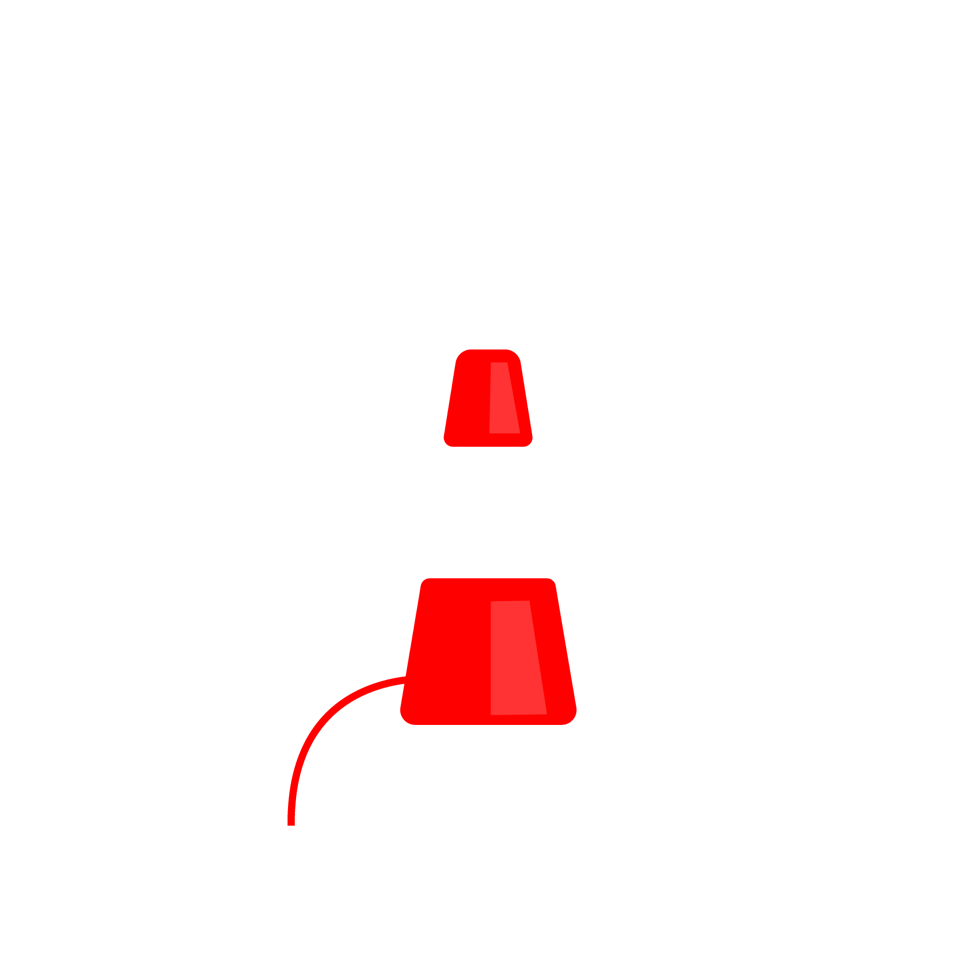
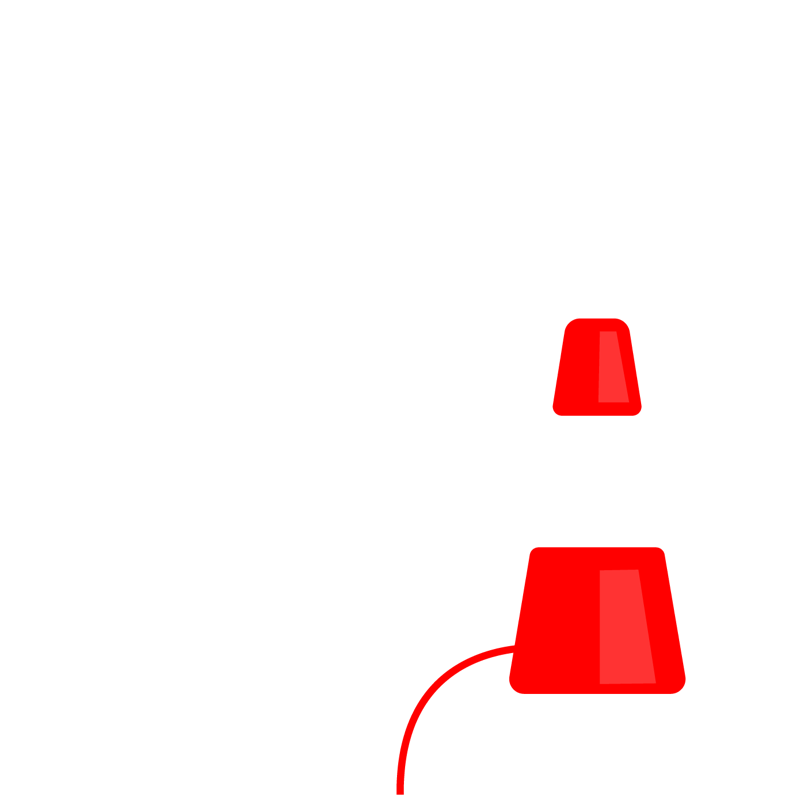
Fix

diff --git a/src/lib/Logo.svelte b/src/lib/Logo.svelte
@@ -26,21 +26,6 @@
 <a class='logo' href='/'>
 	<svg xmlns='http://www.w3.org/2000/svg' xmlns:xlink='http://www.w3.org/1999/xlink' viewBox='0 0 500 500'>
 		<defs>
-			<!-- <clipPath id='mask-orange'>
-				<path d='M-143.71,547.11l-17.1-10.65a62.66,62.66,0,0,1-20.05-86.31L229.56-193.11a62.65,62.65,0,0,1,86.31-20L333-202.5A62.63,62.63,0,0,1,353-116.22v0L-57.4,527.06a62.64,62.64,0,0,1-86.3,20.05Z' />
-			</clipPath>
-			<clipPath id='mask-lavender'>
-				<path d='M-36.93,616.52-54,605.86a62.64,62.64,0,0,1-20-86.3h0L336.34-123.7a62.63,62.63,0,0,1,86.3-20h0L439.74-133a62.64,62.64,0,0,1,20.05,86.26L49.37,596.47A62.66,62.66,0,0,1-36.93,616.52Z' />	
-			</clipPath>
-			<clipPath id='mask-blue'>
-				<path d='M11.15,654l-17.1-10.65a62.66,62.66,0,0,1-20-86.31L384.42-86.21a62.65,62.65,0,0,1,86.3-20l17.11,10.57a62.64,62.64,0,0,1,20.05,86.3L97.46,634A62.67,62.67,0,0,1,11.15,654Z' />
-			</clipPath>
-			<clipPath id='mask-purple'>
-				<path d='M58.56,725.11l-17.1-10.66a62.64,62.64,0,0,1-20-86.3h0L431.83-15.11a62.65,62.65,0,0,1,86.31-20l17.1,10.65a62.65,62.65,0,0,1,20,86.31L144.87,705.06a62.64,62.64,0,0,1-86.3,20.05Z' />
-			</clipPath>
-			<clipPath id='mask-red'>
-				<path d='M177.13,757.16,160,746.5A62.66,62.66,0,0,1,140,660.21h0L550.4,16.94a62.63,62.63,0,0,1,86.3-20h0L653.81,7.59A62.66,62.66,0,0,1,673.86,93.9L263.44,737.11a62.64,62.64,0,0,1-86.3,20Z' />
-			</clipPath> -->
 			<clipPath id='mask'>
 				<path d='M37.93,199.06c19.1,6.2,35.94-15.62,56.62-7.93,26.85,10.1,31,50,65.21,73.29a61.92,61.92,0,0,0,35.76,11.09,87.64,87.64,0,0,0,24.14,56.57l-43.55,29.53-48.82-34s-48.14,80.91,27.57,129.82S284.72,437,284.72,437L237.3,404l15.77-49.57c37.57,14.69,80.16,3.72,105.32-25.88l20.94,14.11-19.06,26.74L383.52,385l-18.68,25.83L387.31,426l-26,36.12,21.9,14.78,84.45-117.21-92.08-62.16a86.28,86.28,0,0,0,1.08-48.2l45.27-20.8a37.78,37.78,0,0,0,35.67,2.33c18.3-8.46,26.06-29.73,17.44-47.53S444.33,158,426,166.36a35.71,35.71,0,0,0-20.69,28.16l-46.17,21.22a91.48,91.48,0,0,0-53.75-31.51L303.88,138a64.78,64.78,0,0,0,36.94-31.18C357.34,75.3,344.44,36.71,312,20.7c-32.64-16-72.4-3.54-88.89,27.93s-3.65,70.06,28.79,86.07a68.3,68.3,0,0,0,8,3.24l1.43,48.23a93.5,93.5,0,0,0-42.53,26.12L37.94,147.45s-13.28-2.34-20.14,7.65S18.72,193,37.93,199.06Zm270.16,34.21c22.21,11,31,37.26,19.75,58.8s-38.55,30.09-60.74,19.06-31-37.33-19.8-58.85C258.8,230.84,285.94,222.28,308.09,233.27Z' />
 			</clipPath>
@@ -72,17 +57,6 @@
 					style='--width: 98; --offset: 402;' />
 			</g>
 		</g>
-		
-		<!-- <rect x='33.2' y='-104.9' transform='matrix(0.8432 0.5376 -0.5376 0.8432 97.2703 -24.5486)' width='115' height='518.8' />
-			<rect x='134.4' y='-57.7' transform='matrix(0.8432 0.5376 -0.5376 0.8432 134.2648 -56.9532)' width='60.7' height='518.8' />
-			<rect x='185.6' y='-25.1' transform='matrix(0.8432 0.5376 -0.5376 0.8432 159.8281 -79.3449)' width='60.7' height='518.8' />
-			<rect x='184.4' y='-7.7' transform='matrix(0.5376 -0.8432 0.8432 0.5376 -100.3967 331.0738)' width='518.8' height='145.4' />
-			<rect x='234.8' y='14' transform='matrix(0.8432 0.5376 -0.5376 0.8432 190.4453 -106.1635)' width='84.8' height='518.8' />
-			<rect x='306.8' y='57.8' transform='matrix(0.8432 0.5376 -0.5376 0.8432 224.788 -136.2454)' width='78.2' height='518.8' />
-			<rect x='370.9' y='106.5' transform='matrix(0.8432 0.5376 -0.5376 0.8432 262.9265 -169.6521)' width='102.8' height='518.8' /> -->
-		<!-- {#each ['orange', 'lavender', 'red', 'purple', 'blue'] as color}
-			<path class='shape {color}' clip-path='url(#mask-{color})' d='M37.93,199.06c19.1,6.2,35.94-15.62,56.62-7.93,26.85,10.1,31,50,65.21,73.29a61.92,61.92,0,0,0,35.76,11.09,87.64,87.64,0,0,0,24.14,56.57l-43.55,29.53-48.82-34s-48.14,80.91,27.57,129.82S284.72,437,284.72,437L237.3,404l15.77-49.57c37.57,14.69,80.16,3.72,105.32-25.88l20.94,14.11-19.06,26.74L383.52,385l-18.68,25.83L387.31,426l-26,36.12,21.9,14.78,84.45-117.21-92.08-62.16a86.28,86.28,0,0,0,1.08-48.2l45.27-20.8a37.78,37.78,0,0,0,35.67,2.33c18.3-8.46,26.06-29.73,17.44-47.53S444.33,158,426,166.36a35.71,35.71,0,0,0-20.69,28.16l-46.17,21.22a91.48,91.48,0,0,0-53.75-31.51L303.88,138a64.78,64.78,0,0,0,36.94-31.18C357.34,75.3,344.44,36.71,312,20.7c-32.64-16-72.4-3.54-88.89,27.93s-3.65,70.06,28.79,86.07a68.3,68.3,0,0,0,8,3.24l1.43,48.23a93.5,93.5,0,0,0-42.53,26.12L37.94,147.45s-13.28-2.34-20.14,7.65S18.72,193,37.93,199.06Zm270.16,34.21c22.21,11,31,37.26,19.75,58.8s-38.55,30.09-60.74,19.06-31-37.33-19.8-58.85C258.8,230.84,285.94,222.28,308.09,233.27Z' />
-		{/each} -->
 	</svg>
 </a>
 
@@ -161,7 +135,7 @@
 			}
 		}
 
-		@include lg {
+		@include xl {
 			left: 0;
 			top: 0;
 			width: 100%;

diff --git a/src/routes/objets/luminaires/+layout.svelte b/src/routes/objets/luminaires/+layout.svelte
@@ -21,19 +21,74 @@
 
 <Content>
 	<h1>{title}</h1>
-	<article>
-		{@html description}
+	<article id='description'>
+		{description}
 	</article>
+	{#if images && images.length > 0}
+		<figure class='cover'>
+			<img src={images[0].image} alt='' />
+			{#if images[0].caption}
+				<figcaption>{images[0].caption}</figcaption>
+			{/if}
+		</figure>
+	{/if}
+	<ul class='models'>
+		{#each models.slice(0, 4) as model}
+			<li class='model'>
+				<article>
+					<h2 class='title'>
+						{model.title}
+					</h2>
+					<p class='dimensions'>
+						{@html model.dimensions.replace(/\n/g, '<br />')}
+					</p>
+				</article>
+				{#if model.lateral_view}
+					<figure class='lateral-view'>
+						<img src={model.lateral_view} alt='' />
+					</figure>
+				{/if}
+			</li>
+		{/each}
+	</ul>
+	{#if images && images.length > 1}
+		<figure class='cover'>
+			<img src={images[1].image} alt='' />
+			{#if images[1].caption}
+				<figcaption>{images[1].caption}</figcaption>
+			{/if}
+		</figure>
+	{/if}
 	<article>
 		<slot />
 	</article>
-	<!-- <ul class='grid'>
-		{#each animations as { title, url }}
-			<li>
-				<VideoEmbed {title} {url} />
-			</li>
-		{/each}
-	</ul> -->
+	<div id='bipolaire'>
+		<div class='wrapper'>
+			<div class='model'>
+				<article>
+					<h2 class='title'>
+						{models.at(-1).title}
+					</h2>
+					<p class='dimensions'>
+						{@html models.at(-1).dimensions.replace(/\n/g, '<br />')}
+					</p>
+				</article>
+				{#if models.at(-1).lateral_view}
+					<figure class='lateral-view'>
+						<img src={models.at(-1).lateral_view} alt='' />
+					</figure>
+				{/if}
+			</div>
+			{#if models.at(-1).description}
+				<p class='description'>
+					{models.at(-1).description}
+				</p>
+			{/if}
+		</div>
+		<figure class='cover'>
+			<img src={models.at(-1).cover} alt='' />
+		</figure>
+	</div>
 </Content>
 
 <style lang='scss'>
@@ -43,12 +98,89 @@
 	}
 
 	article {
-		font-size: 0.9rem;
-		
-		:global(strong) {
-			color: $brown;
+		color: $brown;
+		text-align: left;
+
+		&#description {
 			font-size: 1.2rem;
 		}
 		
+		:global {
+			strong {
+				font-size: 1.2rem;
+				font-weight: inherit;
+			}
+
+			em {
+				font-size: 0.9rem;
+				color: var(--text-color, black);
+			}
+		}
+	}
+
+	.models {
+		display: grid;
+		grid-template-columns: repeat(2, 1fr);
+		gap: 2rem;
+
+		@include sm {
+			grid-template-columns: 1fr;
+		}
+	}
+
+	.model {
+		background-color: #E1E5F6;
+		position: relative;
+		max-width: 24rem;
+
+		article {
+			position: absolute;
+			bottom: 0;
+			left: 0;
+			padding: 1rem;
+
+			h2 {
+				font-size: 1.4rem;
+				margin: 0.25rem 0;
+			}
+
+			p {
+				margin: 0;
+			}
+		}
+	
+		.lateral-view {
+			width: 100%;
+		}
+	}
+
+	#bipolaire {
+		margin-top: 6rem;
+
+		.wrapper {
+			display: flex;
+			align-items: flex-end;
+			gap: 1rem;
+
+			.model {
+				flex: 1;
+
+				article {
+					top: 0;
+					bottom: auto;
+				}
+			}
+
+			.description {
+				flex: 1;
+				margin: 0;
+				color: $brown;
+			}
+
+			@include md {
+				flex-direction: column;
+				align-items: center;
+			}
+		}
 	}
 </style>

diff --git a/src/lib/Menu.svelte b/src/lib/Menu.svelte
@@ -1,5 +1,8 @@
 <script>
+	import { beforeNavigate } from '$app/navigation';
 	let isMenuVisible = false;
+
+	beforeNavigate(() => isMenuVisible = false);
 </script>
 
 <nav class:active={isMenuVisible}>
@@ -103,17 +106,16 @@
 			display: none;
 		}
 
-		@include lg {
-			left: auto;
-			right: 0;
-			top: 0;
+		@include xl {
+			inset: 0;
 			align-items: center;
 			width: 100%;
 			padding: 2rem;
-			margin-top: 6rem;
+			padding-top: 6rem;
 			pointer-events: none;
-			background-color: rgba($background, 0);
+			background-color: rgba(var(--background-color, $background), 0);
 			transition: background-color 300ms ease;
+			// backdrop-filter: blur(5px);
 
 			.burger {
 				display: block;
@@ -167,7 +169,7 @@
 
 			&.active {
 				pointer-events: all;
-				background-color: rgba($background, 0.9);
+				background-color: var(--background-color, $background);
 
 				.burger {
 					.burger-line {

diff --git a/src/routes/+page.js b/src/routes/+page.js
@@ -17,15 +17,13 @@ export async function load() {
 
 		const models = object.models[0].cover
 			? object.models
-			: object.models.reduce((previousVariants, model) => [...previousVariants, ...model.variants], []);
+			: object.models.reduce((previousVariants, model) => [...previousVariants, ...(model.variants || [])], []);
 
 		return [
 			...previousModels,
 			...models
 		];
 	}, []);
-
-	console.log(allModels)
 
 	return {
 		featured,

diff --git a/src/routes/+layout.svelte b/src/routes/+layout.svelte
@@ -1,7 +1,7 @@
 <script>
 	import { page } from '$app/stores';
 
-	import { Logo, Footer } from '$lib';
+	import { Logo, Menu, Footer } from '$lib';
 
 	import '../app.css';
 	
@@ -14,6 +14,7 @@
 	</title>
 </svelte:head>
 <Logo />
+<Menu />
 <slot />
 <Footer />
 

diff --git a/src/routes/+page.svelte b/src/routes/+page.svelte
@@ -1,12 +1,10 @@
 <script>
-	import { Menu, MiniCarousel, VideoEmbed } from '$lib';
+	import { MiniCarousel, VideoEmbed } from '$lib';
 
 	export let data;
 	
 	$: ({ featured, carousels } = data);
 </script>
-
-<Menu />
 
 <main>
 	<ul class='galleries-layout'>

diff --git a/src/routes/events/+layout.svelte b/src/routes/events/+layout.svelte
@@ -4,8 +4,6 @@
 	import { Content, VideoEmbed } from '$lib';
 
 	const { events } = $page.data;
-
-	console.log(events)
 </script>
 
 <Content>

diff --git a/src/variables.scss b/src/variables.scss
@@ -1,7 +1,6 @@
 /* PALETTE */
 
 $background: #F9FDF1;
-$background-blue: #E9EDF9;
 $orange: #FF7B00;
 $blue: #00009A;
 $lavender: #655CFF;

diff --git a/src/routes/about/+layout.svelte b/src/routes/about/+layout.svelte
@@ -64,6 +64,7 @@
 				transform-origin: top left;
 				white-space: nowrap;
 				margin: 0;
+				color: whitesmoke;
 			}
 		}
 

diff --git a/src/routes/objets/luminaires/+page.md b/src/routes/objets/luminaires/+page.md
@@ -1,11 +1,11 @@
 ---
 title: Luminaires
 title_singular: Lampe
-description: "**Une famille de luminaires en bois tourné laqué, aux volumes
+description: "Une famille de luminaires en bois tourné laqué, aux volumes
   simples, empilés, colorés. Une ampoule LED blanc mat, un dimmer pour moduler
   la lumière, un câble électrique en provenance du Piémont, assorti aux couleurs
   du modèle, c’est là tout un savoir-faire artisanal mis à l’honneur et pensé
-  pour que ces lampes vous rendent heureux. Fabriquées en Ile-de-France.**"
+  pour que ces lampes vous rendent heureux. Fabriquées en Ile-de-France."
 images:
   - image: /uploads/mimikko-toutes.png
   - image: /uploads/sous-la-banquise.png
@@ -19,7 +19,7 @@ models:
     variants: []
   - title: Vikki
     dimensions: |-
-      H 50 cm  \
+      H 50 cm  
       Ø 15 cm
     lateral_view: /uploads/vikki-lat.png
     variants:
@@ -31,7 +31,7 @@ models:
         cover: /uploads/vikki-vertigo.png
   - title: Mikko
     dimensions: |-
-      H 67 cm  \
+      H 67 cm  
       Ø 17 cm
     lateral_view: /uploads/mikko-lat.png
     variants:
@@ -76,8 +76,8 @@ models:
 
 **Ici encore, on retrouve un travail sur la couleur.**
 
-*On peut modifier dans une certaine mesure l’aspect d’une couleur sans agir directement sur elle par un mélange matériel quelconque. Il suffit seulement, pour cela, de la placer à côté d’une autre couleur qui selon qu’elle sera analogue ou opposée, atténuera ou exaltera son intensité.*\
+*On peut modifier dans une certaine mesure l’aspect d’une couleur sans agir directement sur elle par un mélange matériel quelconque. Il suffit seulement, pour cela, de la placer à côté d’une autre couleur qui selon qu’elle sera analogue ou opposée, atténuera ou exaltera son intensité.*  
 *Forichon, La Couleur*
 
-*Le blanc possède le son d’un silence que nous arrivons soudainement à comprendre.*\
+*Le blanc possède le son d’un silence que nous arrivons soudainement à comprendre.*  
 *Kandinsky, Le Spiritualisme dans l’Art*

diff --git a/src/routes/objets/coffee-tables/+page.md b/src/routes/objets/coffee-tables/+page.md
@@ -31,7 +31,7 @@ models:
     lateral_view: /uploads/otono-lat.png
   - title: Givre Bleu
     subtitle: Hiver
-    cover: givre-bleu-2.png
+    cover: /uploads/givre-bleu-def.png
     description: Pour représenter l’hiver (…) nous avons besoin de couleurs
       intériorisantes, froides et rayonnantes vers l’intérieur, transparentes et
       spiritualisantes.
